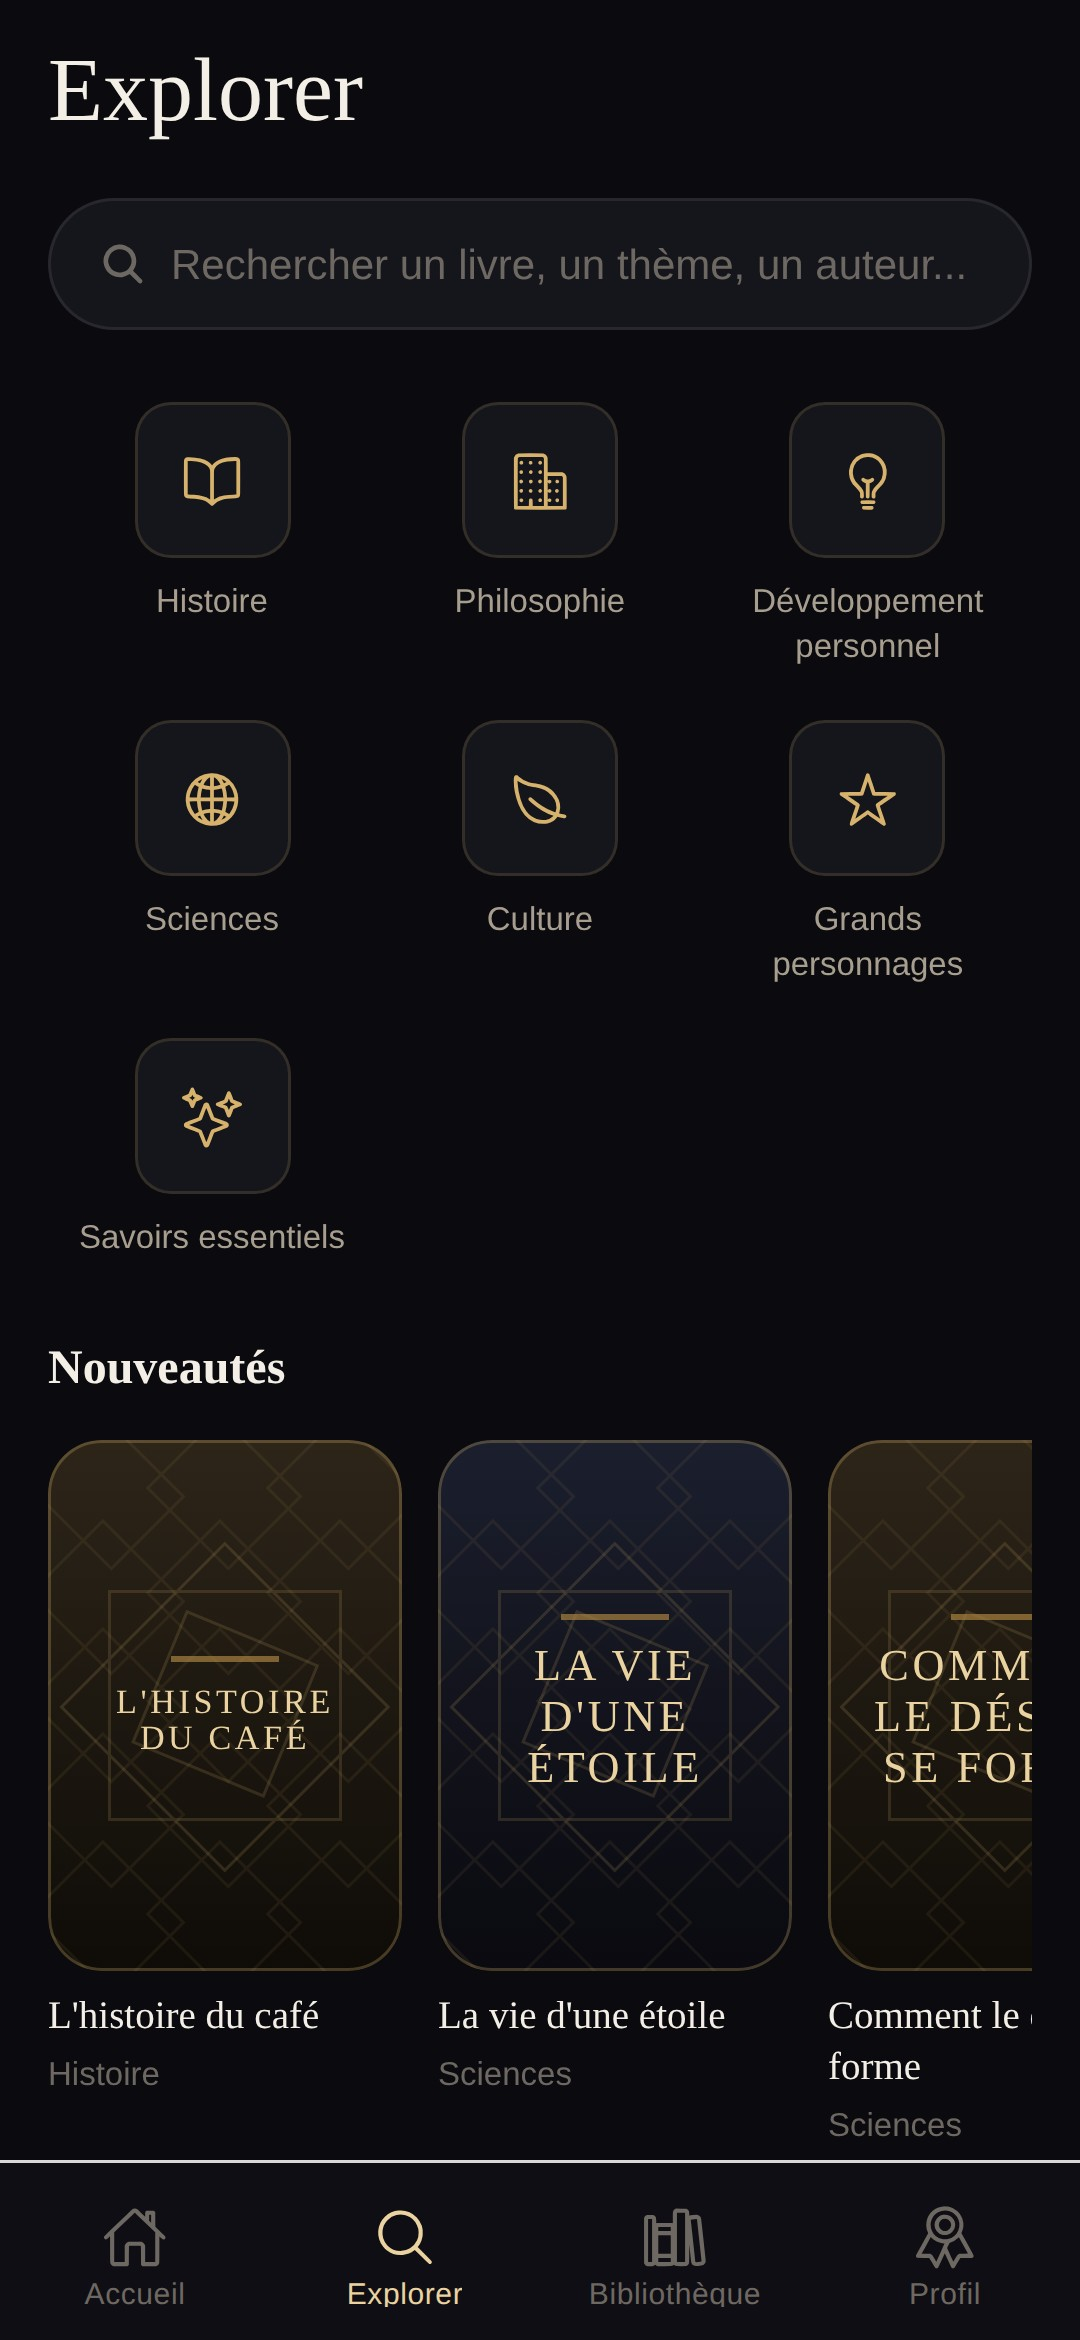
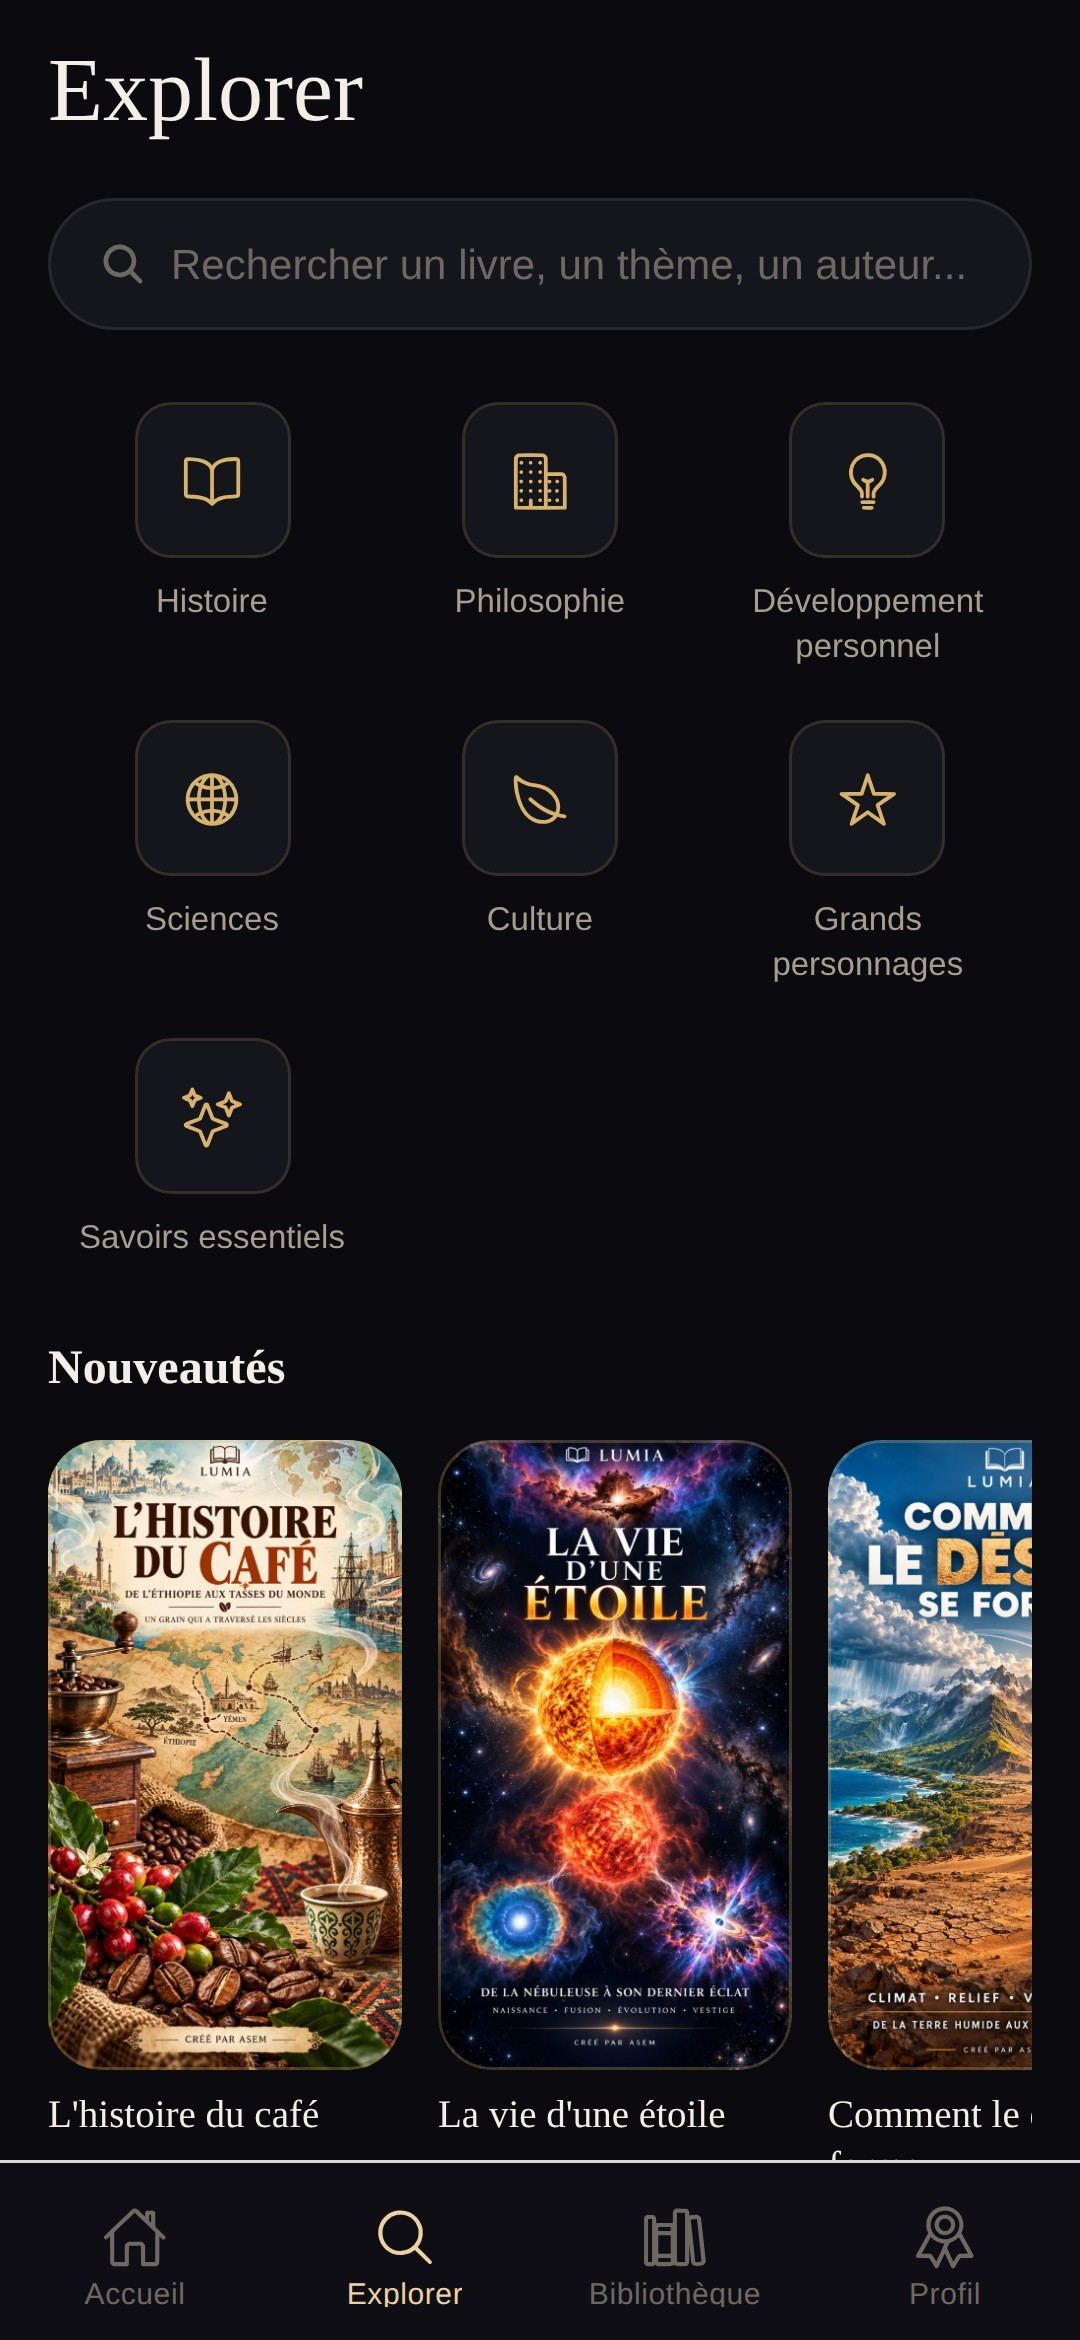
Embarquer les onze couvertures, qui étaient dans les HTML
Elles y étaient depuis le début : chaque export porte deux images en base64 —
la couverture, puis une affiche de synthèse « Ce qu'il faut retenir ». C'est ce
qui explique cinq à huit méga-octets de fichier pour cent kilo-octets de texte.
Personne n'avait regardé, et onze livres affichaient une couverture composée en
code alors que leur premier chapitre décrivait une image précise.

npm run books:import extrait désormais la couverture tout seul, et deux scripts
finissent le travail :

    npm run covers:import -- <dossier>   redimensionne à 720 px dans assets/
    npm run covers:index                 écrit src/data/covers.ts

Le générateur de la table vivait dans un brouillon hors du dépôt, alors que
CLAUDE.md présentait covers.ts comme généré. Il est maintenant dans scripts/,
et il n'échoue plus sur un livre sans image : c'est l'état normal d'un livre
qu'on vient d'importer, et BookCover sait composer une couverture.

Les onze images relues à l'aune de la charte : objets, paysages, architecture,
typographie. Aucun visage, aucune silhouette, aucun animal. Et elles
correspondent à ce que le premier chapitre décrit — le poivron devant le miroir
qui reflète un piment, l'ancre et les ballons, la faille dans la banquise.

67 couvertures, 11,7 Mo. Captures des boutiques régénérées.

Claude-Session: https://claude.ai/code/session_018v1JKYtdgYiCoXHcV1eQ4n

Changed region(s): [[0.0306, 0.5927, 0.7333, 0.9047], [0.7639, 0.5927, 0.9778, 0.9359]]

diff --git a/src/data/covers.ts b/src/data/covers.ts
@@ -3,12 +3,12 @@ import type { ImageSourcePropType } from "react-native";
 /**
  * Les couvertures dessinées par l'auteur des livres, embarquées dans le bundle.
  *
- * Ce fichier est généré : une entrée par livre du catalogue, dans le même ordre. Metro exige
- * un chemin littéral dans `require` — d'où une table écrite en clair plutôt qu'un chemin
- * construit à partir du slug.
+ * Ce fichier est **généré** par `npm run covers:index` : une entrée par livre du catalogue
+ * qui a son image, dans l'ordre du catalogue. Metro exige un chemin littéral dans
+ * `require` — d'où une table écrite en clair plutôt qu'un chemin construit à partir du slug.
  *
- * Les images sont ramenées à 720 px de large en JPEG, soit environ 4,7 Mo pour tout le
- * catalogue : une couverture ne dépasse jamais 200 pt à l'écran, même sur la fiche livre.
+ * Les images sont ramenées à 720 px de large en JPEG, soit 11,7 Mo pour 67 couvertures :
+ * une couverture ne dépasse jamais 200 pt à l'écran, même sur la fiche livre.
  *
  * Un livre sans entrée ici garde la couverture composée en code par `BookCover`.
  */
@@ -27,9 +27,14 @@ export const COVERS: Record<string, ImageSourcePropType> = {
   "l-histoire-du-papier": require("../../assets/couvertures/l-histoire-du-papier.jpg"),
   "la-route-de-la-soie": require("../../assets/couvertures/la-route-de-la-soie.jpg"),
   "l-histoire-de-l-argent": require("../../assets/couvertures/l-histoire-de-l-argent.jpg"),
+  "l-histoire-du-cafe": require("../../assets/couvertures/l-histoire-du-cafe.jpg"),
   "comprendre-la-science": require("../../assets/couvertures/comprendre-la-science.jpg"),
   "les-lois-de-l-univers": require("../../assets/couvertures/les-lois-de-l-univers.jpg"),
   "explorer-le-savoir": require("../../assets/couvertures/explorer-le-savoir.jpg"),
+  "la-vie-d-une-etoile": require("../../assets/couvertures/la-vie-d-une-etoile.jpg"),
+  "comment-le-desert-se-forme": require("../../assets/couvertures/comment-le-desert-se-forme.jpg"),
+  "sous-la-glace": require("../../assets/couvertures/sous-la-glace.jpg"),
+  "pourquoi-la-mer-est-salee": require("../../assets/couvertures/pourquoi-la-mer-est-salee.jpg"),
   "les-bienfaits-de-la-montagne": require("../../assets/couvertures/les-bienfaits-de-la-montagne.jpg"),
   "la-nature": require("../../assets/couvertures/la-nature.jpg"),
   "le-silence-des-dunes": require("../../assets/couvertures/le-silence-des-dunes.jpg"),
@@ -37,6 +42,9 @@ export const COVERS: Record<string, ImageSourcePropType> = {
   "la-molecule-improbable": require("../../assets/couvertures/la-molecule-improbable.jpg"),
   "le-corbeau": require("../../assets/couvertures/le-corbeau.jpg"),
   "ton-cerveau-apres-l-ecran": require("../../assets/couvertures/ton-cerveau-apres-l-ecran.jpg"),
+  "le-paradoxe-du-bonheur": require("../../assets/couvertures/le-paradoxe-du-bonheur.jpg"),
+  "qui-sommes-nous-vraiment": require("../../assets/couvertures/qui-sommes-nous-vraiment.jpg"),
+  "le-piege-des-apparences": require("../../assets/couvertures/le-piege-des-apparences.jpg"),
   "le-mental-en-desordre": require("../../assets/couvertures/le-mental-en-desordre.jpg"),
   "toi-vs-toi": require("../../assets/couvertures/toi-vs-toi.jpg"),
   "recuperer": require("../../assets/couvertures/recuperer.jpg"),
@@ -46,6 +54,7 @@ export const COVERS: Record<string, ImageSourcePropType> = {
   "pourquoi-sommes-nous-jaloux": require("../../assets/couvertures/pourquoi-sommes-nous-jaloux.jpg"),
   "le-piege-du-encore-5-minutes": require("../../assets/couvertures/le-piege-du-encore-5-minutes.jpg"),
   "le-pouvoir-de-l-ennui": require("../../assets/couvertures/le-pouvoir-de-l-ennui.jpg"),
+  "l-illusion-du-controle": require("../../assets/couvertures/l-illusion-du-controle.jpg"),
   "l-intelligence-sociale": require("../../assets/couvertures/l-intelligence-sociale.jpg"),
   "l-effet-de-foule": require("../../assets/couvertures/l-effet-de-foule.jpg"),
   "le-prix-de-la-celebrite": require("../../assets/couvertures/le-prix-de-la-celebrite.jpg"),
@@ -56,6 +65,8 @@ export const COVERS: Record<string, ImageSourcePropType> = {
   "pourquoi-achetons-nous-des-choses-inutiles": require("../../assets/couvertures/pourquoi-achetons-nous-des-choses-inutiles.jpg"),
   "le-monde-sans-electricite": require("../../assets/couvertures/le-monde-sans-electricite.jpg"),
   "pourquoi-avons-nous-peur-du-noir": require("../../assets/couvertures/pourquoi-avons-nous-peur-du-noir.jpg"),
+  "pourquoi-les-odeurs-reveillent-elles-des-souvenirs": require("../../assets/couvertures/pourquoi-les-odeurs-reveillent-elles-des-souvenirs.jpg"),
+  "pourquoi-oublions-nous-nos-reves": require("../../assets/couvertures/pourquoi-oublions-nous-nos-reves.jpg"),
   "les-manipulations-invisibles": require("../../assets/couvertures/les-manipulations-invisibles.jpg"),
   "fake-news": require("../../assets/couvertures/fake-news.jpg"),
   "l-argent-change-t-il-l-homme": require("../../assets/couvertures/l-argent-change-t-il-l-homme.jpg"),
@@ -72,8 +83,8 @@ export const COVERS: Record<string, ImageSourcePropType> = {
 };
 
 /**
- * Proportion hauteur / largeur du cadre des couvertures. C'est celle de 26 des 28 images
- * fournies ; les deux autres, plus carrées, sont centrées dedans sans être rognées.
+ * Proportion hauteur / largeur du cadre des couvertures, celle de la très grande majorité
+ * des images fournies. Les quelques plus carrées sont centrées dedans sans être rognées.
  */
 export const COVER_RATIO = 1.7764;
 

diff --git a/CLAUDE.md b/CLAUDE.md
@@ -61,12 +61,11 @@ Ce que cela change, et ce que cela ne change pas :
   drapeaux de « Napoléon » est un emblème héraldique.
 - La couverture composée en code **existe toujours** (`BookCover` sans `slug`, ou avec un slug
   absent de la table) : c'est le repli d'un livre qui n'a pas encore d'image.
-- **Onze livres n'ont pas encore leur image** : les onze importés le 14 septembre 2026. Ils
-  affichent donc la couverture composée. C'est plus qu'un défaut d'esthétique — leur premier
-  chapitre s'intitule « Ce que dit la couverture » et décrit une image précise (un sablier,
-  une pomme entamée dans un miroir, une faille dans la banquise) que le lecteur n'a pas sous
-  les yeux. Les couvertures existent chez le propriétaire du projet, puisque les livres les
-  commentent : il faut les lui demander, et les ajouter à `assets/couvertures/`.
+- **Les 67 livres du catalogue ont leur image.** Ce n'est pas un simple confort : le premier
+  chapitre de chacun s'intitule « Ce que dit la couverture » et décrit une image précise — un
+  sablier, une pomme entamée dans un miroir, une faille dans la banquise. Sans l'image, le
+  lecteur lit la description de quelque chose qu'il ne voit pas. Un livre importé doit donc
+  arriver avec sa couverture, et `npm run books:import` l'extrait désormais tout seul.
 - **La règle reste la règle pour tout le reste** : aucun portrait, aucune silhouette, aucun
   animal ailleurs dans l'app. La maquette d'origine posait des portraits (Saladin, Ibn Sina,
   Marc Aurèle) sur les couvertures : ceux-là restent exclus.
@@ -208,12 +207,14 @@ scripts/
   import-books.mjs          # convertit des exports HTML en entrées de catalogue
   translate-books.mjs       # traduit le catalogue dans une autre langue
   generate-catalog-index.mjs # écrit src/data/catalog.ts
+  import-covers.mjs         # embarque des couvertures, ramenées à 720 px
+  generate-covers.mjs       # écrit src/data/covers.ts
   captures-boutique.mjs     # les captures d'écran aux dimensions des boutiques
 boutique/
   fiche-boutiques.md        # description, mots-clés, âge, confidentialité : le texte des fiches
   captures/                 # les images à téléverser (générées)
 eas.json                    # les trois profils de build EAS
-assets/couvertures/         # les 56 couvertures fournies, 720 px de large, ~9,6 Mo
+assets/couvertures/         # les 67 couvertures, 720 px de large, ~11,7 Mo
 ```
 
 ## Ajouter des livres
@@ -235,6 +236,21 @@ Deux façons :
 
    Le script conserve la structure du HTML : intertitres `<h4>`, encadrés `.box` et `.stat`,
    avertissements `.box warn`, versets `.verse` avec leur référence, listes et tableaux.
+
+   **Il extrait aussi la couverture.** Ces exports embarquent deux images en base64 — la
+   couverture, puis une affiche de synthèse « Ce qu'il faut retenir » — ce qui explique leurs
+   cinq à huit méga-octets pour cent kilo-octets de texte. Seule la première est retenue :
+   c'est celle que le premier chapitre décrit. Elle atterrit dans `couvertures/` à côté des
+   HTML, nommée par le slug du livre, et s'embarque ensuite :
+
+   ```bash
+   npm run covers:import -- ./mes-livres-html/couvertures   # redimensionne vers assets/
+   npm run covers:index                                     # écrit src/data/covers.ts
+   ```
+
+   Les onze livres du 14 septembre 2026 ont d'abord été importés sans leur image, parce que
+   personne n'avait pensé à regarder dans le HTML. Ne pas refaire le trajet : la couverture
+   est dans le fichier.
 
    Ces livres commentent leur propre couverture, qu'ils appellent « l'affiche » : un chapitre
    d'ouverture « Ce que dit l'affiche », puis des renvois en plein texte. Comme l'app affiche
